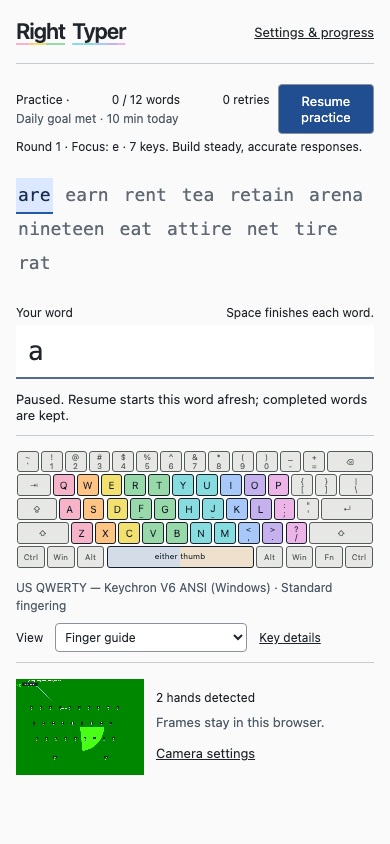
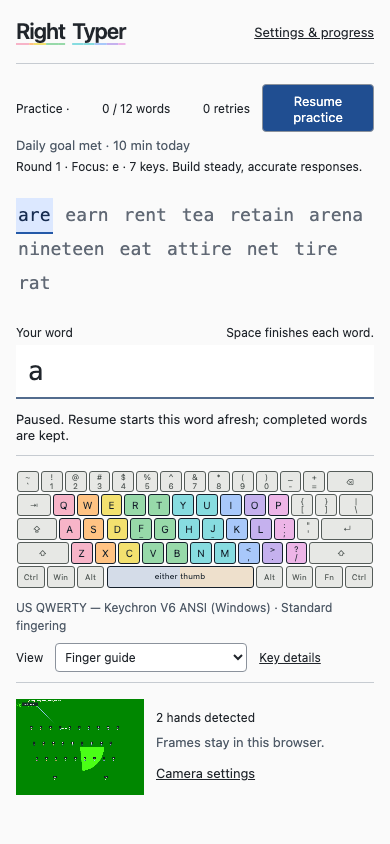
docs: refresh daily-goal captures after stable header fix

Changed region(s): [[0.0308, 0.0924, 0.9538, 0.9242], [0.0308, 0.8626, 0.3692, 0.955], [0.5846, 0.3697, 0.9538, 0.4005]]

diff --git a/docs/daily-goal.md b/docs/daily-goal.md
@@ -8,4 +8,6 @@ A one-second presentation refresh notices a new date or timezone while idle; it 
 
 Tests cover the exact completion boundary, off/edit/reset/reload, continued and abandoned practice, duplicate observations, concurrent writer notice, denied settings storage, local midnight, DST and timezone changes. These are synthetic software checks; the default duration is a reversible product choice, with no learning-efficacy claim.
 
-Rendered synthetic fixtures at source `07e5cd7`: [goal met with editable detail](images/daily-goal/met-detail-synthetic.png) and [390px practice label](images/daily-goal/met-390-synthetic.png). The activity seed and camera stream are artificial; no personal footage is included.
+Rendered synthetic fixtures at source `568e512`: [goal met with editable detail](images/daily-goal/met-detail-synthetic.png) and [390px practice label](images/daily-goal/met-390-synthetic.png). The activity seed and camera stream are artificial; no personal footage is included.
+
+The goal occupies its own reserved header row on narrow screens. A consistent action column and height preserve keyboard/camera positions through ordinary, met and off states and Start/Pause/Resume. The existing centered-geometry assertion and added320px/390px transitions remain exact.
